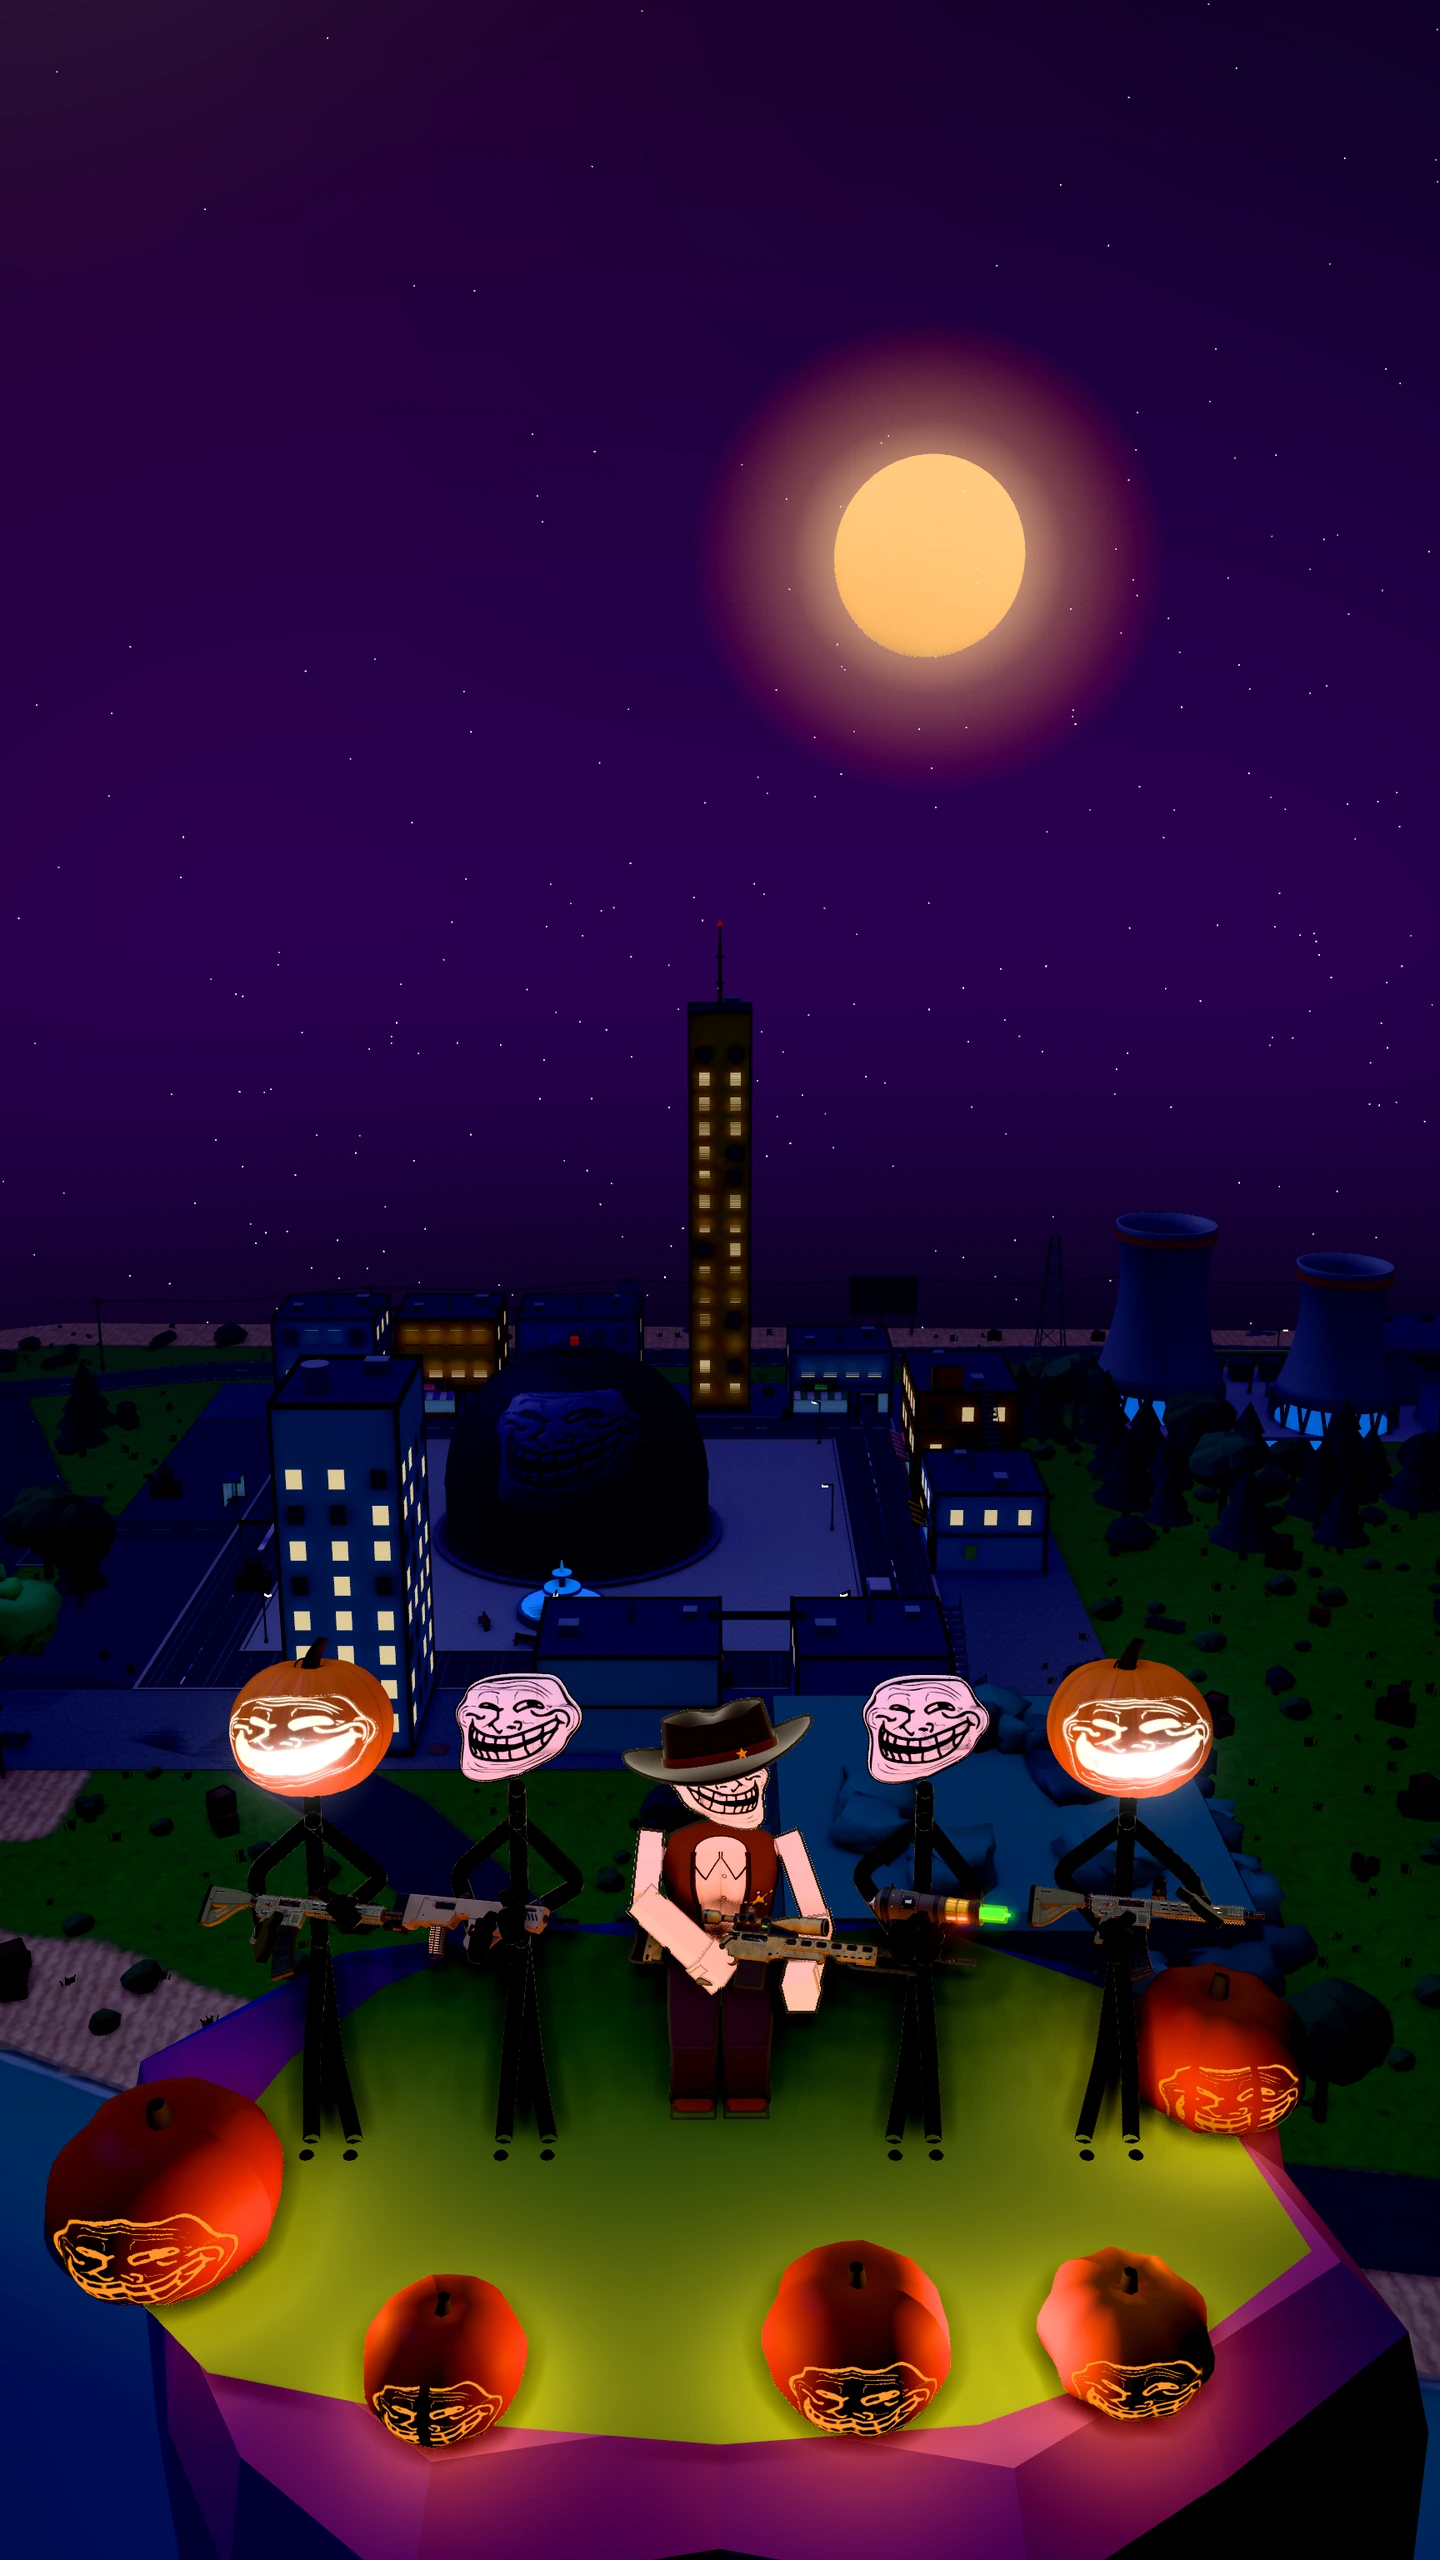
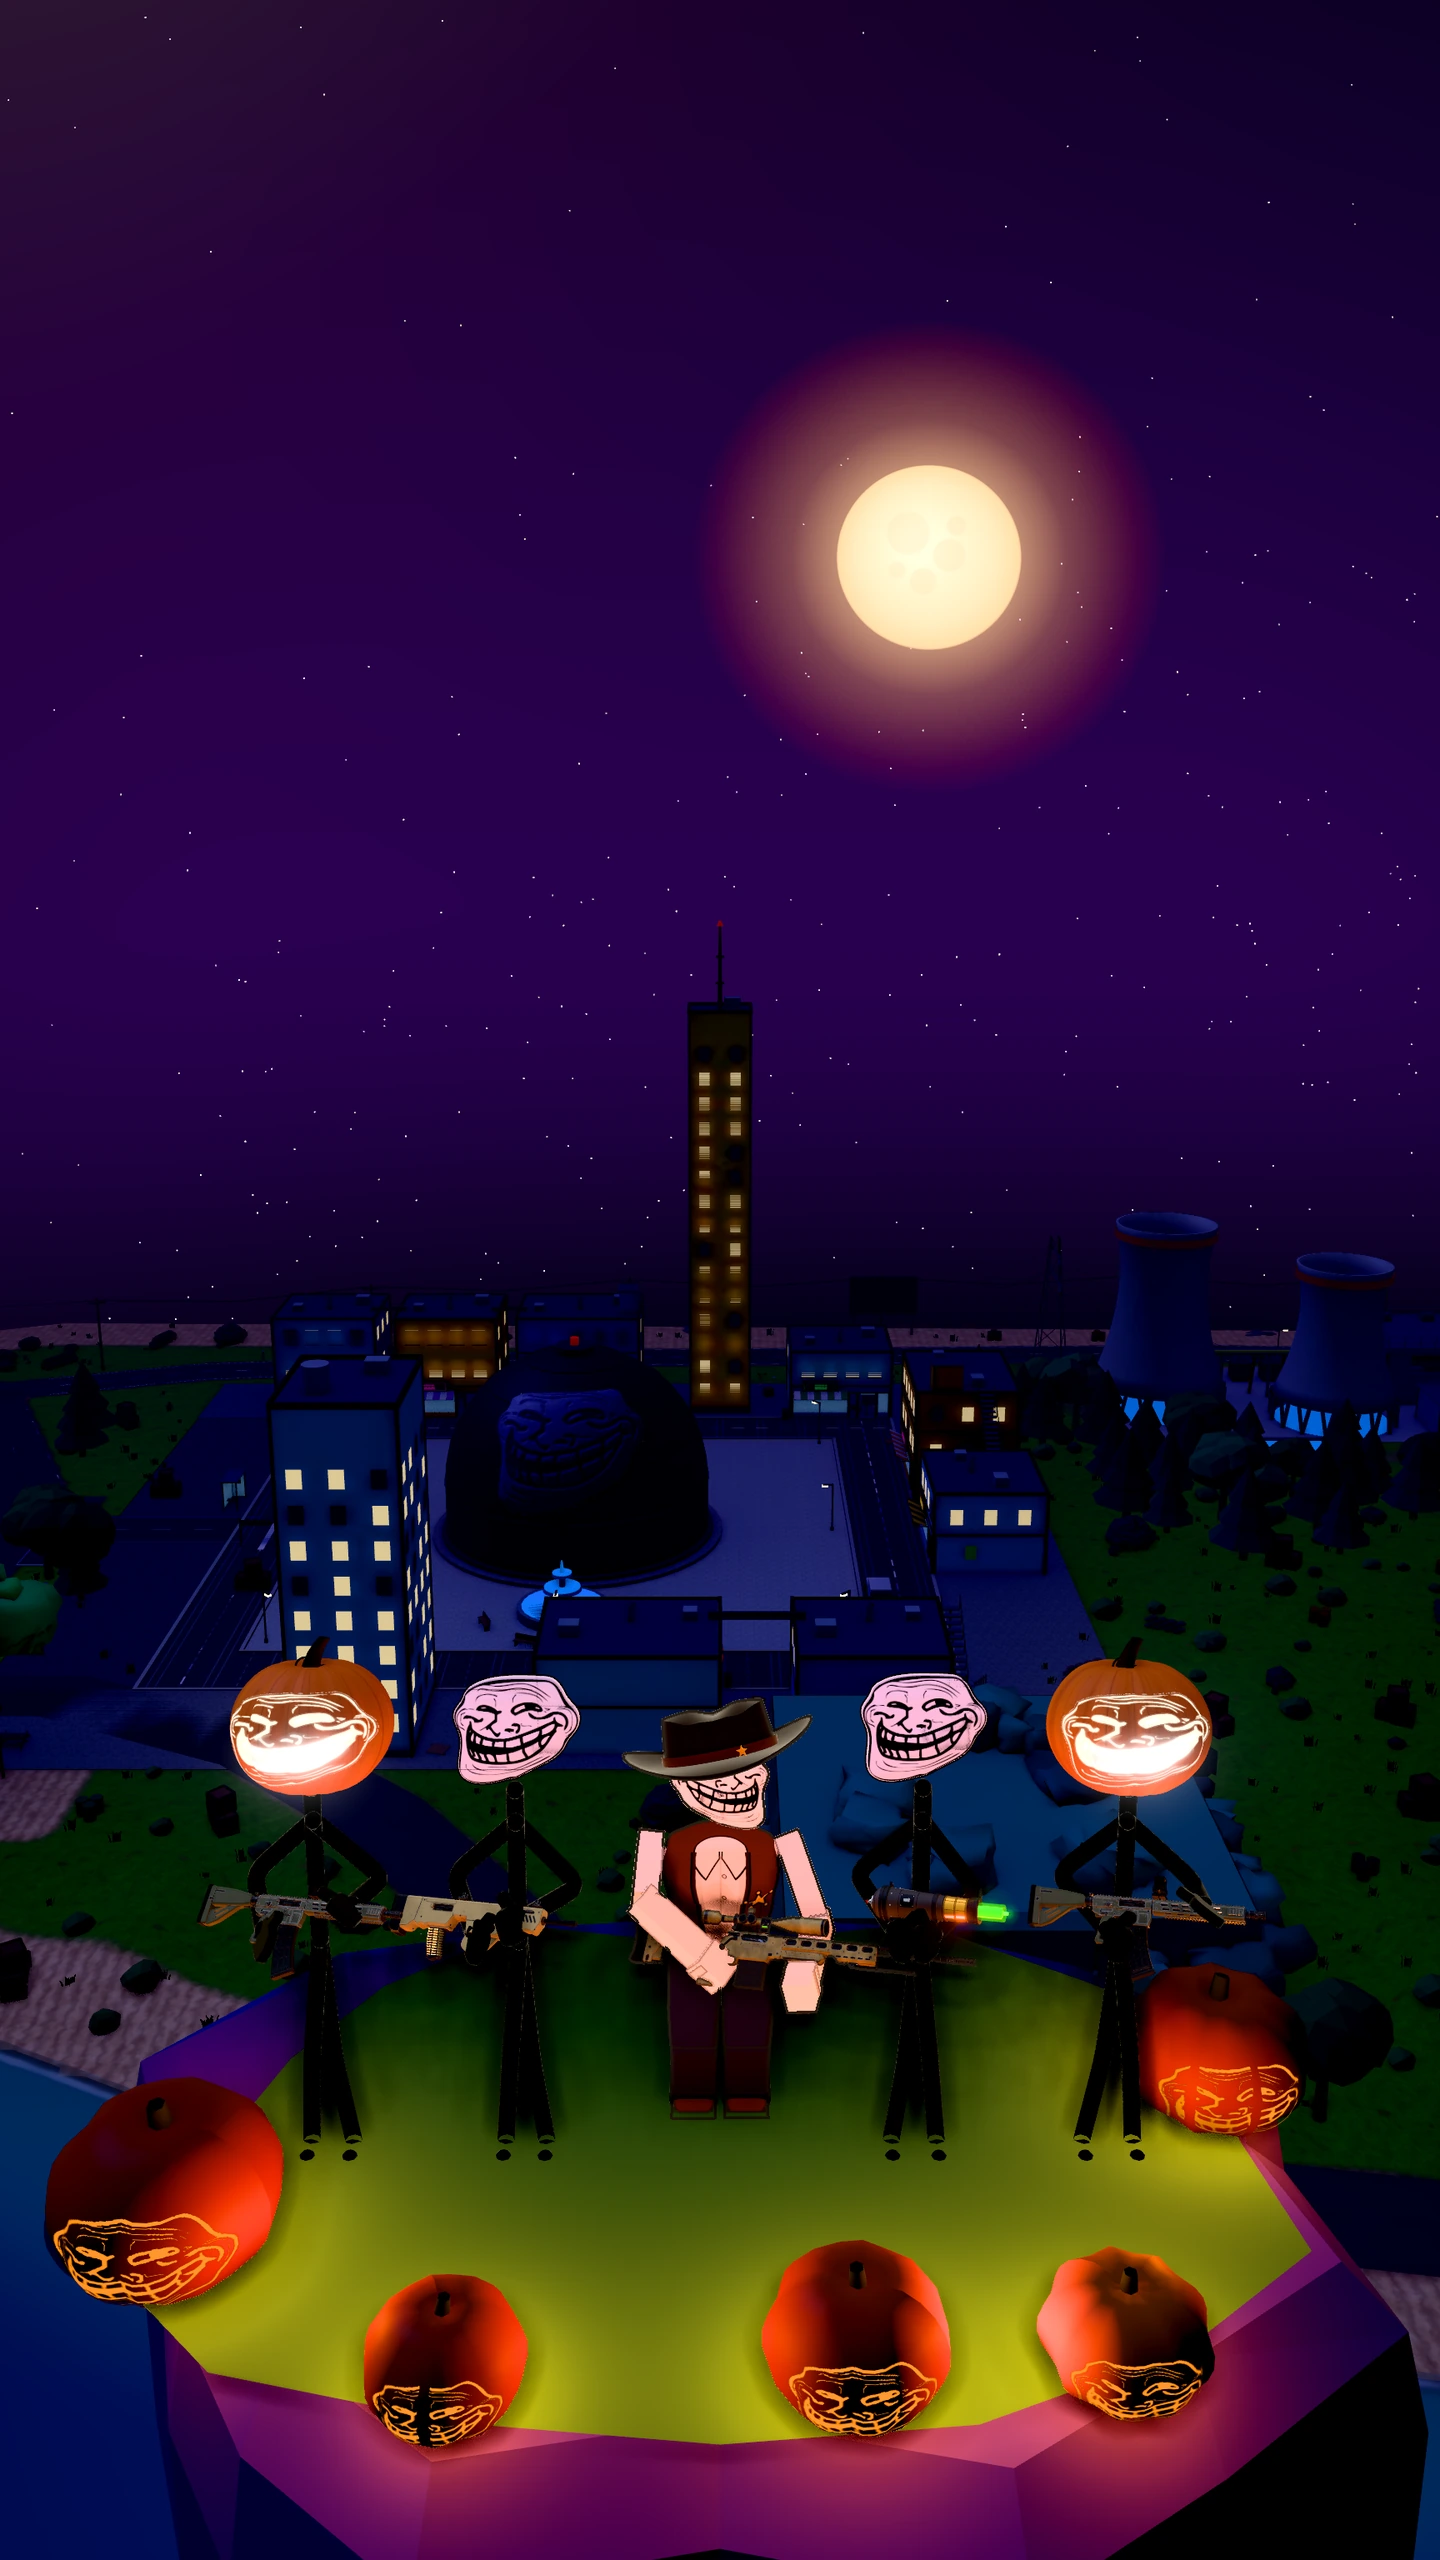
Trollnite boot art: the Halloween moon in view on a sideways phone, and round
On a sideways phone the wide picture loses ~58 px off the top, and the moon
(9.5% down) fell just off it. It now sits lower and further right
(frames.wide.moon [585,120,-700]): in view at 844x390, right of the
TROLLNITE wordmark and left of the pumpkin switch. Near the frame's edge
the old sphere smeared into an oval, so the moon is a camera-facing disc
now (a drawn harvest moon over its halo). Art tag lk3.

Checked: anchors and the moon's glow at 844x390 (centre 725,33; wordmark
ends 651, switch starts 786); every head solid in both frames.

diff --git a/troll-ops.html b/troll-ops.html
@@ -734,8 +734,8 @@
            for the device in hand. Up until the player enters the menu. -->
       <div class="to-loading" id="to-loading" role="dialog" aria-label="Trollnite">
         <picture class="to-boot-art">
-          <source media="(orientation: portrait)" srcset="assets/games/troll-ops/ui/boot/key-art-tall.webp?v=lk2">
-          <img src="assets/games/troll-ops/ui/boot/key-art-wide.webp?v=lk2" alt="The squad on the Troll Peak facing you, Trollface Island behind them" decoding="async" fetchpriority="high">
+          <source media="(orientation: portrait)" srcset="assets/games/troll-ops/ui/boot/key-art-tall.webp?v=lk3">
+          <img src="assets/games/troll-ops/ui/boot/key-art-wide.webp?v=lk3" alt="The squad on the Troll Peak facing you, Trollface Island behind them" decoding="async" fetchpriority="high">
         </picture>
         <!-- the Halloween look (boot-screen.js): swaps the art, remembered -->
         <button type="button" class="to-boot-look" aria-pressed="false" aria-label="Halloween look: off" title="Halloween look">

diff --git a/assets/games/troll-ops/menu/boot-screen.js b/assets/games/troll-ops/menu/boot-screen.js
@@ -30,7 +30,7 @@ export function initBootScreen(root) {
      a halloween version ... users can click a pumpkin button that changes
      to halloween version"): normal unless the player picked the pumpkin;
      remembered on this device. */
-  const ART = "assets/games/troll-ops/ui/boot", ART_V = "lk2", LOOK_KEY = "trollops:boot-look";
+  const ART = "assets/games/troll-ops/ui/boot", ART_V = "lk3", LOOK_KEY = "trollops:boot-look";
   const look = root.querySelector(".to-boot-look");
   const art = root.querySelector(".to-boot-art");
   // the picture's moving parts (menu/boot-motion.js)
